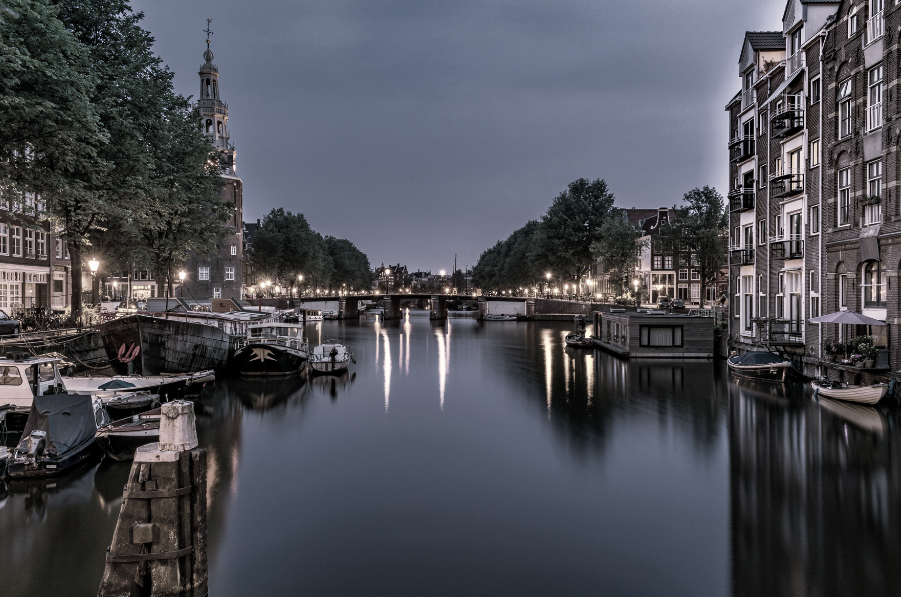
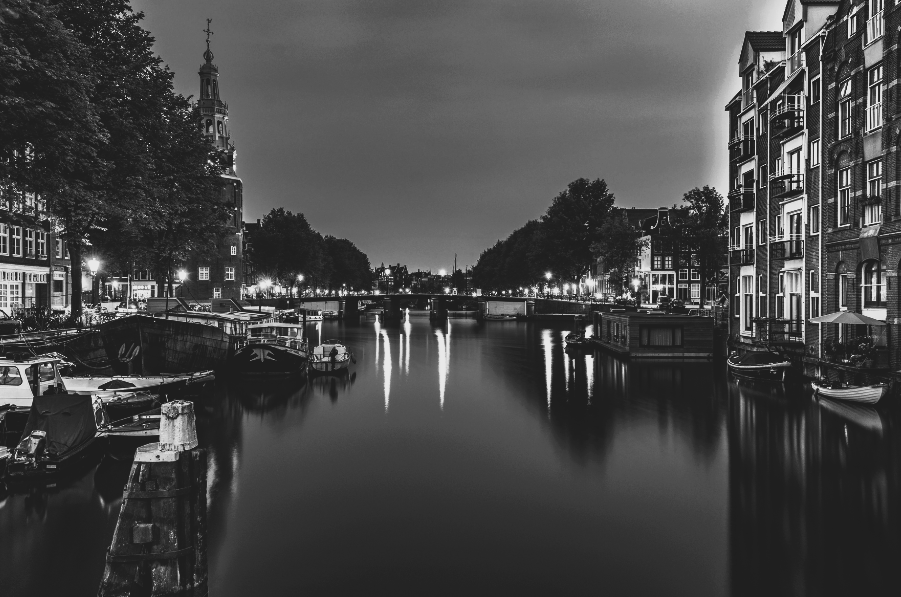
change-in-pagination

diff --git a/static/css/pg.css b/static/css/pg.css
@@ -360,12 +360,15 @@ gap: 0.003rem;
     width: 38%;
   
   }
-
+.columns
   .about-section{
     display: flex;
     flex-direction: row;
     justify-content: center;
     gap: 1rem;
+  }
+  .card{
+    
   }
 /* =========================
    SECTION DETAIL

diff --git a/blog/models.py b/blog/models.py
@@ -11,6 +11,7 @@ class BookReview(models.Model):
     )
     body=models.TextField()
     image = models.ImageField(upload_to='destinations/', default='defaults/no-image.png')
+    paginate_by = 4
     def __str__(self):
         return self.title
     
@@ -40,6 +41,7 @@ class Europe(models.Model):
     )
     body=models.TextField()
     image = models.ImageField(upload_to='destinations/', default='defaults/no-image.png')
+    paginate_by = 4
     def __str__(self):
         return self.title
 